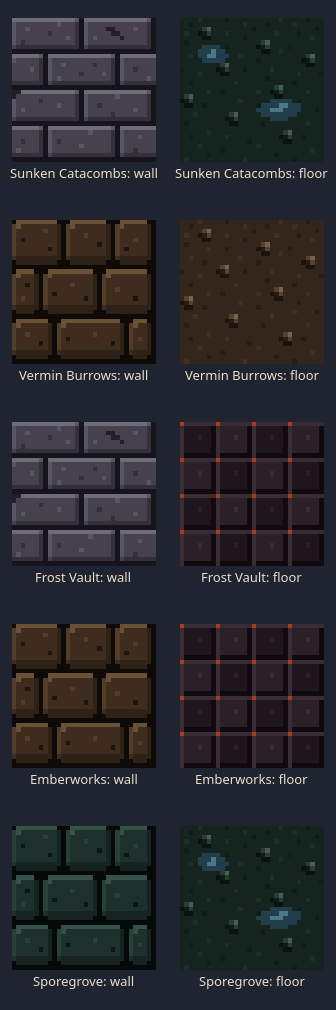
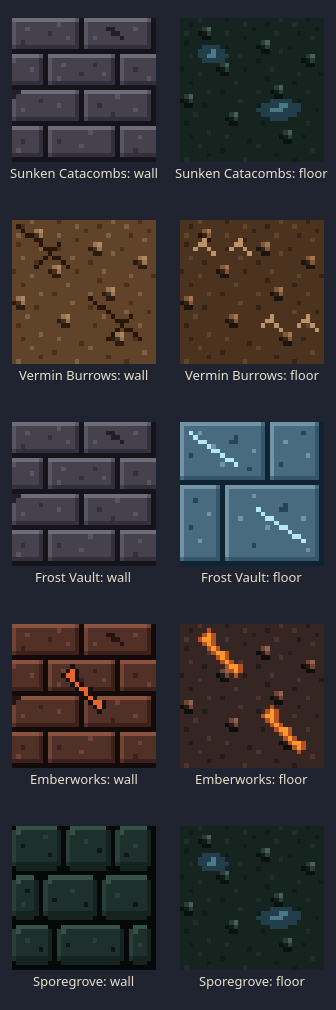
Give vault, forge and burrows distinct floor and wall art

diff --git a/src/art/textures.ts b/src/art/textures.ts
@@ -1,5 +1,5 @@
 import { ArtDef } from './raster';
-import { rows } from './helpers';
+import { rows, stamp } from './helpers';
 
 // Palette values with alpha 'fa' (250) are EMISSIVE: the renderer draws them
 // at full brightness regardless of lighting (glowing mortar, crystals...).
@@ -379,6 +379,68 @@ const CHECKER_ROWS = [0, 1, 2, 3].flatMap((band) =>
   TILE_A.map((_, i) => (band % 2 === 0 ? TILE_A[i] + TILE_B[i] : TILE_B[i] + TILE_A[i]).repeat(2)),
 );
 
+// Frost Vault has fractured blue flagstones rather than the throne checker.
+// Emberworks has charcoal dirt split by hot seams. Both keep the 32px tile
+// cadence of the existing floor art, but their patterns read apart at a glance.
+const ICE_FISSURE = rows(`
+  q...........
+  .q..........
+  ..qq........
+  ....q.......
+  .....qq.....
+  .......q....
+  ........qq..
+  ..........q.
+`);
+const FROST_FLOOR_ROWS = stamp(stamp(FLAG_ROWS, ICE_FISSURE, 2, 2), ICE_FISSURE, 17, 19);
+const EMBER_SEAM = rows(`
+  .....r..........
+  ....rqr.........
+  ...rqqr.........
+  ....rqr.........
+  .....rqr........
+  ......rqqr......
+  .......rqr......
+  ........rqr.....
+  .........rqqr...
+  ..........rqr...
+  ...........r....
+`);
+const EMBER_FLOOR_ROWS = stamp(stamp(DIRT_ROWS, EMBER_SEAM, 1, 1), EMBER_SEAM, 15, 18);
+const BURROW_ROOT = rows(`
+  r.............
+  .r............
+  ..rr..........
+  ....r.........
+  .....r...r....
+  ......rrr.....
+  .......r......
+  ......r.rr....
+  .....r....r...
+  ....r......r..
+`);
+const BURROW_TRACK = rows(`
+  ...q.......q..
+  ..qq......qq..
+  .q..q....q..q.
+  .....q.......q
+`);
+const BURROW_WALL_ROWS = stamp(stamp(DIRT_ROWS, BURROW_ROOT, 1, 1), BURROW_ROOT, 17, 17);
+const BURROW_WALL_ALT_ROWS = stamp(BURROW_WALL_ROWS, BURROW_ROOT, 8, 9);
+const BURROW_FLOOR_ROWS = stamp(stamp(DIRT_ROWS, BURROW_TRACK, 2, 4), BURROW_TRACK, 17, 21);
+const FURNACE_VENT = rows(`
+  rrrrrrrrrrrrrr
+  rqqqqqqqqqqqqr
+  rqrrrrrrrrrrqr
+  rqrqqqqqqrqrqr
+  rqrqqqqqqrqrqr
+  rqrrrrrrrrrrqr
+  rqqqqqqqqqqqqr
+  rrrrrrrrrrrrrr
+`);
+const EMBER_WALL_ROWS = stamp(BRICK_ROWS, EMBER_SEAM, 8, 9);
+const EMBER_WALL_ALT_ROWS = stamp(EMBER_WALL_ROWS, FURNACE_VENT, 9, 11);
+
 // Doors -------------------------------------------------------------------------
 const DOOR_WOOD_ROWS = rows(`
   zxwwwwwyzxwwwwwyzxwwwwwyzxwwwwwy
@@ -491,6 +553,11 @@ const CAVE_CEIL = { m: '#030605', e: '#070d0b', a: '#0b1411', b: '#101a17', c: '
 const THRONE = { m: '#7a2410fa', e: '#1a1218', a: '#241a22', b: '#30232c', c: '#3e2e38', d: '#4e3a46' };
 const THRONE_FLOOR = { r: '#b03c18fa', d: '#3a2c34', b: '#1e161c', f: '#2a2026', g: '#3a2e36', a: '#100a0e', c: '#2a2028' };
 const THRONE_CEIL = { m: '#4a160afa', e: '#0e0a0c', a: '#140e12', b: '#1a1318', c: '#20181e', d: '#281e26' };
+const FROST_VAULT_FLOOR = { m: '#102333', e: '#284459', a: '#35556a', b: '#496b80', c: '#7294a6', q: '#b7eafffa' };
+const EMBERWORKS_FLOOR = { e: '#100d0d', a: '#241b1a', b: '#352523', c: '#50332b', d: '#714534', p: '#96644b', q: '#ff9a30fa', r: '#b95222fa' };
+const BURROW_WALL = { e: '#2a1c12', a: '#49301b', b: '#61432a', c: '#806044', d: '#977555', p: '#af8860', r: '#281709' };
+const BURROW_FLOOR = { e: '#1c140d', a: '#342417', b: '#4b3320', c: '#63452b', d: '#80593b', p: '#a47751', q: '#bc9368' };
+const EMBERWORKS_WALL = { m: '#130b09', e: '#261410', a: '#3b2119', b: '#513027', c: '#704334', d: '#8a5440', q: '#ef6626fa', r: '#190e0c' };
 
 const WOOD_DOOR = { w: '#5a3a1c', x: '#6e4824', y: '#3a240e', z: '#24160a', i: '#2a2a30', j: '#4a4a54', k: '#15151a', n: '#8a8a94' };
 const IRON_DOOR = { i: '#34343c', j: '#50505a', k: '#1c1c22', n: '#7a7a86', r: '#5a2a1a', s: '#40201a' };
@@ -529,6 +596,19 @@ export const TEXTURES: ArtDef[] = [
   { id: 'wall_throne_s', base: 'wall_throne', palette: CHALK_PAL, rows: CHALK_ROWS },
   { id: 'floor_throne', palette: THRONE_FLOOR, rows: CHECKER_ROWS },
   { id: 'ceil_throne', palette: THRONE_CEIL, rows: SLAB_ROWS },
+
+  // Alternate mid-depth floors
+  { id: 'floor_frostvault', palette: FROST_VAULT_FLOOR, rows: FROST_FLOOR_ROWS },
+  { id: 'floor_emberworks', palette: EMBERWORKS_FLOOR, rows: EMBER_FLOOR_ROWS },
+
+  // Packed-earth burrows and soot-black furnace masonry
+  { id: 'wall_burrows', palette: BURROW_WALL, rows: BURROW_WALL_ROWS },
+  { id: 'wall_burrows_b', palette: BURROW_WALL, rows: BURROW_WALL_ALT_ROWS },
+  { id: 'wall_burrows_s', base: 'wall_burrows', palette: CHALK_PAL, rows: CHALK_ROWS },
+  { id: 'floor_burrows', palette: BURROW_FLOOR, rows: BURROW_FLOOR_ROWS },
+  { id: 'wall_emberworks', palette: EMBERWORKS_WALL, rows: EMBER_WALL_ROWS },
+  { id: 'wall_emberworks_b', palette: EMBERWORKS_WALL, rows: EMBER_WALL_ALT_ROWS },
+  { id: 'wall_emberworks_s', base: 'wall_emberworks', palette: CHALK_PAL, rows: CHALK_ROWS },
 
   // Doors
   { id: 'door_wood', palette: WOOD_DOOR, rows: DOOR_WOOD_ROWS },

diff --git a/src/data/biomes.ts b/src/data/biomes.ts
@@ -59,22 +59,22 @@ export const BIOMES: BiomeDef[] = [
   },
   {
     id: 'burrows', name: 'The Vermin Burrows', depths: [1, 2, 3],
-    wall: 'wall_mine', wallAlt: 'wall_mine_b', wallSecret: 'wall_mine_s',
-    floor: 'floor_mine', ceiling: 'ceil_cave', door: 'door_wood',
+    wall: 'wall_burrows', wallAlt: 'wall_burrows_b', wallSecret: 'wall_burrows_s',
+    floor: 'floor_burrows', ceiling: 'ceil_cave', door: 'door_wood',
     fog: '#0e0904', ambient: '#3a2b1a', torch: '#ffbb70', torchDensity: 0.055,
     favoredEnemies: ['rat', 'bat', 'spider', 'goblin', 'tunnel_stalker'],
   },
   {
     id: 'frostvault', name: 'The Frost Vault', depths: [3, 4, 5],
     wall: 'wall_crypt', wallAlt: 'wall_crypt_b', wallSecret: 'wall_crypt_s',
-    floor: 'floor_throne', ceiling: 'ceil_crypt', door: 'door_iron',
+    floor: 'floor_frostvault', ceiling: 'ceil_crypt', door: 'door_iron',
     fog: '#050b17', ambient: '#23344c', torch: '#a9d5ff', torchDensity: 0.04,
     favoredEnemies: ['frost_wisp', 'skeleton_archer', 'skeleton_shield', 'icebound_guard', 'elemental_frost'],
   },
   {
     id: 'emberworks', name: 'The Emberworks', depths: [3, 4, 5],
-    wall: 'wall_mine', wallAlt: 'wall_mine_b', wallSecret: 'wall_mine_s',
-    floor: 'floor_throne', ceiling: 'ceil_mine', door: 'door_iron',
+    wall: 'wall_emberworks', wallAlt: 'wall_emberworks_b', wallSecret: 'wall_emberworks_s',
+    floor: 'floor_emberworks', ceiling: 'ceil_mine', door: 'door_iron',
     fog: '#160603', ambient: '#483022', torch: '#ff7848', torchDensity: 0.09,
     favoredEnemies: ['ember_wisp', 'flame_wraith', 'goblin_shield', 'cinder_raider'],
   },

diff --git a/src/__tests__/biome-variety.test.ts b/src/__tests__/biome-variety.test.ts
@@ -1,5 +1,7 @@
 import { describe, expect, it } from 'vitest';
-import { biomeForDepth, biomeForFloor } from '../data/biomes';
+import { BIOMES, biomeForDepth, biomeForFloor } from '../data/biomes';
+import { getArt } from '../art/registry';
+import { rasterize } from '../art/raster';
 import { generateFloor } from '../systems/dungeon';
 
 describe('run biome variety', () => {
@@ -19,5 +21,14 @@ describe('run biome variety', () => {
 
   it('keeps the final floor as the throne', () => {
     for (let seed = 1; seed <= 12; seed++) expect(generateFloor(seed, 6).biome).toBe('throne');
+  });
+
+  it('gives the vault, forge and burrows visibly different floors', () => {
+    const ids = ['frostvault', 'emberworks', 'burrows', 'mines'];
+    const floors = ids.map((id) => BIOMES.find((b) => b.id === id)!.floor);
+    expect(new Set(floors).size).toBe(ids.length);
+    const pixels = floors.map((id) => Array.from(rasterize(getArt(id)!, undefined, getArt).data).join(','));
+    expect(new Set(pixels).size).toBe(ids.length);
+    expect(BIOMES.find((b) => b.id === 'burrows')!.wall).not.toBe(BIOMES.find((b) => b.id === 'emberworks')!.wall);
   });
 });
